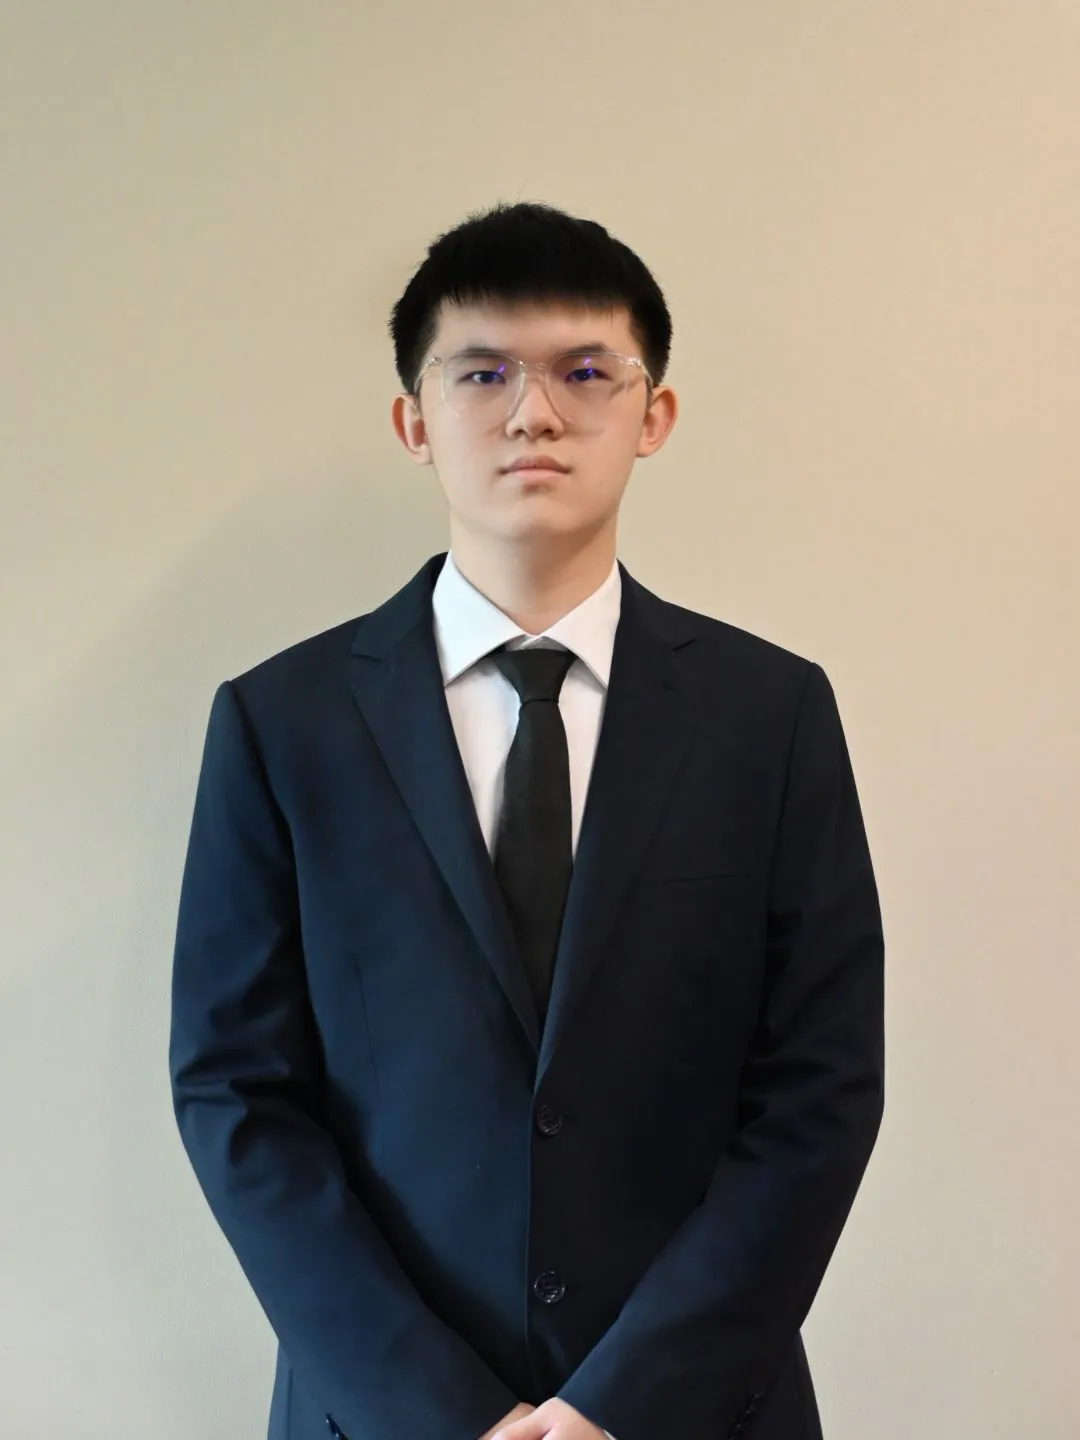
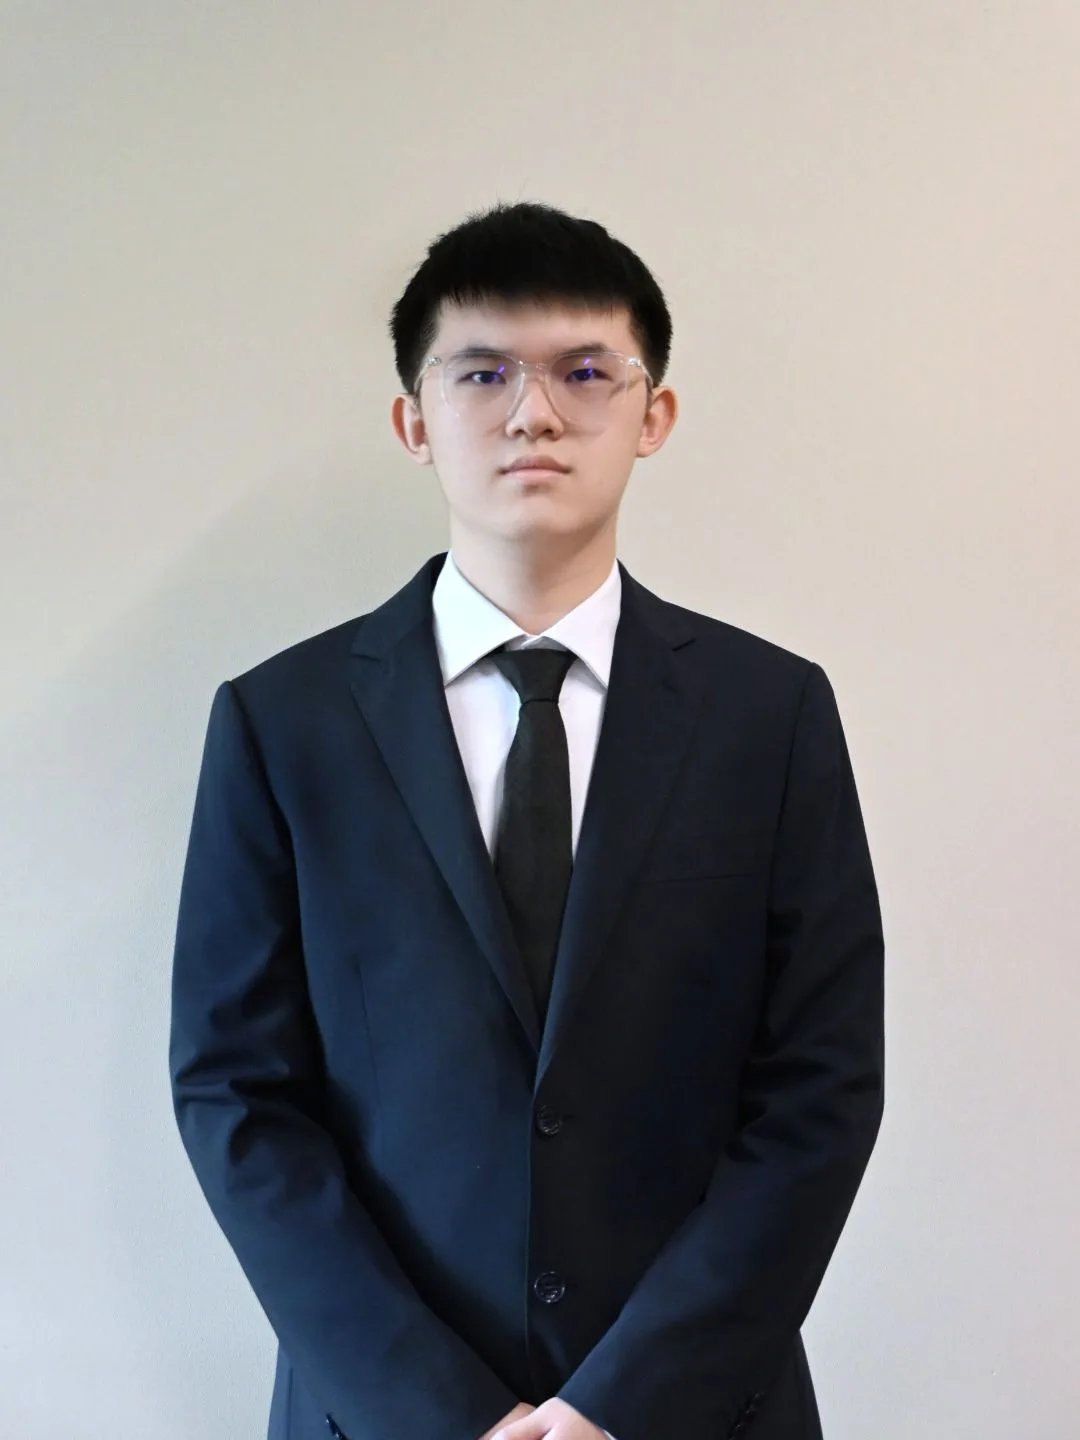
fix: show the About portrait in colour
Greyscale read as a memorial photo. The file is now colour-graded instead: the warm wall is pulled most of the way to the page's neutral grey while skin keeps its warmth, and it is slightly dimmed on the dark theme.

diff --git a/src/lib/components/sections/About.svelte b/src/lib/components/sections/About.svelte
@@ -75,17 +75,18 @@
 		background: var(--bg-raised);
 	}
 
-	/* Set in the page's greys: the warm wall of the original would clash with the palette. */
+	/* In colour. The file itself is graded: the warm wall of the original is pulled most of the way
+	   to the page's neutral grey, while skin keeps its warmth. */
 	.portrait img {
 		width: 100%;
 		height: 100%;
 		object-fit: cover;
 		object-position: 50% 20%;
-		filter: grayscale(1) contrast(1.04);
 	}
 
+	/* A touch dimmer on the dark page, so the pale wall does not glare. */
 	:global([data-theme='dark']) .portrait img {
-		filter: grayscale(1) contrast(1.04) brightness(0.9);
+		filter: brightness(0.92);
 	}
 
 	.body {
